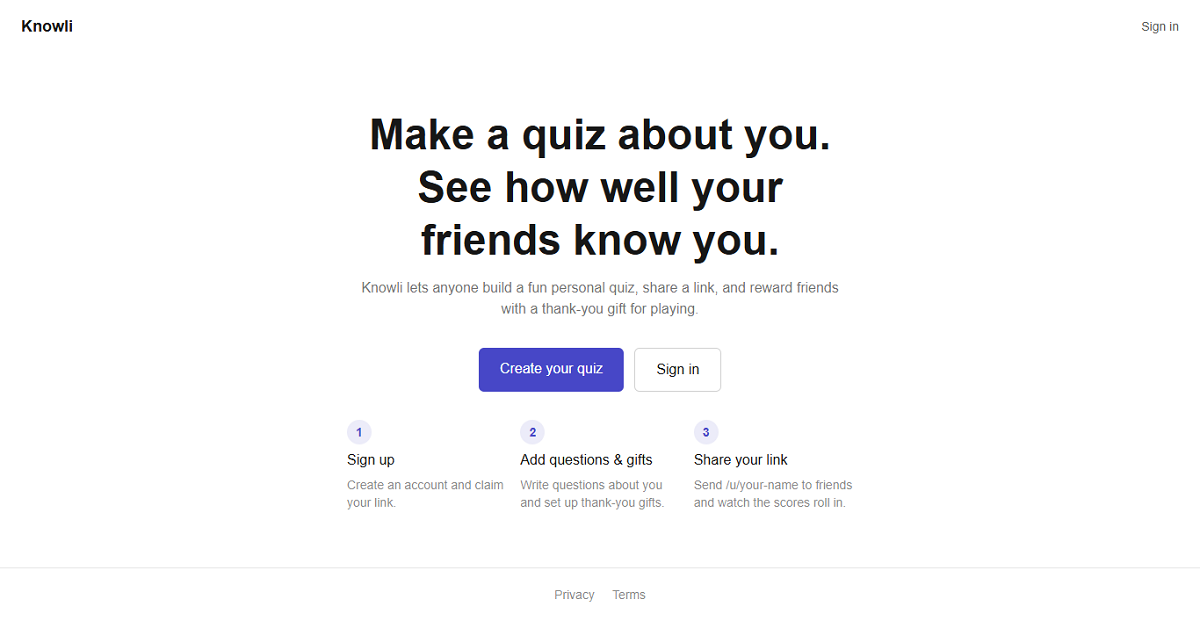
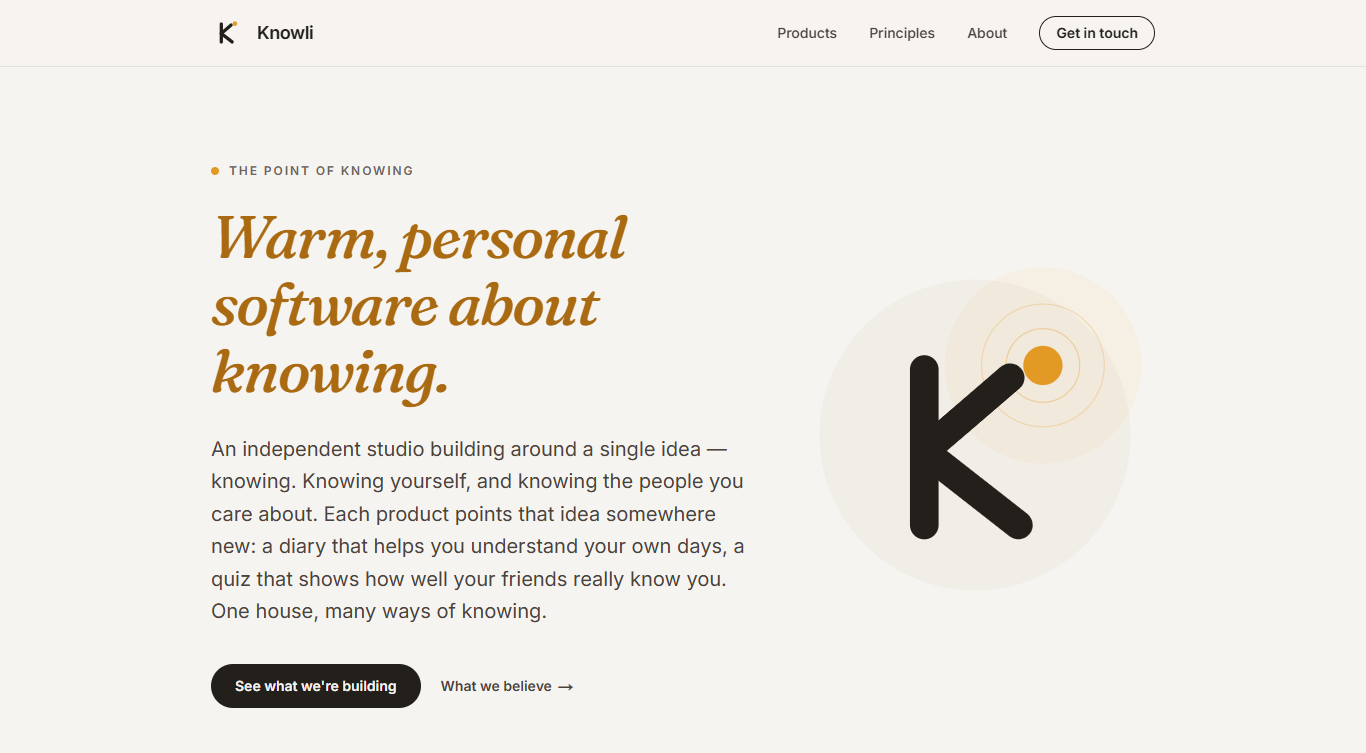
feat(projects): add Daylight and Knowli brand projects, rename Knowli to Knowli Quiz
Knowli is now the parent brand with its own marketing site, and the
original quiz product moved under it at quiz.knowli.xyz as Knowli Quiz.
Adds Daylight, the pre-launch diary product currently live as a waitlist
page, plus a socialLinks field to show a project's brand social accounts.

diff --git a/data/projects.ts b/data/projects.ts
@@ -32,6 +32,13 @@ export interface SocialPost {
   platform?: "linkedin" | "twitter" | "other";
 }
 
+// A brand's social media account, shown as an icon row (distinct from SocialPost,
+// which is a write-up about the project rather than an account).
+export interface SocialLink {
+  platform: "x" | "instagram" | "linkedin" | "youtube" | "tiktok";
+  url: string;
+}
+
 export interface Project {
   id: string;
   name: string;
@@ -54,6 +61,7 @@ export interface Project {
     posts?: SocialPost[]; // Curated list of write-ups / posts
     searchUrl?: string; // Optional "see all posts" link (e.g. a LinkedIn search)
   };
+  socialLinks?: SocialLink[]; // Brand's own social media accounts, shown as an icon row
 }
 
 const getTechnology = (name: string): Technology => {
@@ -81,17 +89,95 @@ export const projects: Project[] = [
     id: 'knowli',
     name: 'Knowli',
     description:
-      'A public quiz platform where anyone signs up, builds a short quiz about themselves, and shares a personal link with friends. Friends answer, see how well they really know the creator, share their score on WhatsApp, and open a thank-you gift — no account needed to play.',
+      'The parent brand behind Daylight and Knowli Quiz. A marketing site that introduces the Knowli studio, explains the idea tying its products together, and links out to each live product.',
     fullDescription:
-      'Knowli started as a single-person quiz ("How well do you know me?") and grew, over 15+ releases, into a full multi-user product. Every user is now a creator with their own quiz at /u/<username>, a dashboard with stat cards and an activity feed, per-recipient gifts, and creator self-tests kept separate from real player results. It ships a complete platform layer: self-service signup, multi-admin auth gated behind super-admin approval, database-driven free-tier limits with creator tiers and email verification, an in-app notification system, limit-increase requests with an admin approval queue, and Google Analytics — all backed by a real v1→v2 data migration run against the live database.',
-    category: 'platform',
+      "Knowli is the parent brand behind a growing family of products — Daylight (the diary app) and Knowli Quiz — with more learning and productivity products planned. This site is the brand's home: a header with smooth-scroll navigation, a hero, a section explaining the idea behind Knowli (one idea, expressed as different products, each free to look and feel like itself), a products section linking to Daylight's waitlist and Knowli Quiz, a values section (data ownership, honesty about what's built vs. coming), an about section, and a footer with social links.",
+    category: 'brand',
     links: {
-      github: 'https://github.com/omooladev/knowli',
+      github: 'https://github.com/knowlihq/knowli',
       demo: 'https://www.knowli.xyz',
     },
     privateRepo: true,
-    technologies: [getTechnology('Next.js'), getTechnology('React'), getTechnology('Typescript'), getTechnology('Tailwind CSS'), getTechnology('MongoDB'), getTechnology('Node.js')],
+    technologies: [getTechnology('Next.js'), getTechnology('React'), getTechnology('Typescript'), getTechnology('Tailwind CSS')],
     thumbnail: '/project-images/knowli.png',
+    websitePreview: 'https://www.knowli.xyz',
+    socialLinks: [
+      { platform: 'x', url: 'https://x.com/knowlihq' },
+      { platform: 'instagram', url: 'https://www.instagram.com/knowlihq/' },
+      { platform: 'linkedin', url: 'https://www.linkedin.com/company/knowlihq/' },
+      { platform: 'youtube', url: 'https://www.youtube.com/@knowlihq' },
+      { platform: 'tiktok', url: 'https://www.tiktok.com/@knowlihq' },
+    ],
+    features: [
+      'Header with smooth-scroll navigation to Products, Principles, and About',
+      'Products section linking to each live product — the Daylight waitlist and Knowli Quiz',
+      'Idea section explaining the philosophy behind the studio: one idea, many products, each with its own identity',
+      'Values section — data ownership and honesty about what is built vs. what is coming',
+      'About section with a direct studio contact email',
+      'Footer with social channels (X, Instagram, LinkedIn, YouTube, GitHub)',
+    ],
+    challenges: [
+      'Introducing a multi-product brand before every product has its own finished visual identity — Knowli Quiz still borrows the shared Knowli mark, while Daylight already has its own',
+      'Writing brand copy that stays honest about what is live versus planned, rather than reading as marketing filler',
+    ],
+    releases: [
+      {
+        version: 'v1.0.0',
+        title: 'The Knowli House Opens',
+        date: 'Jul 2026',
+        category: 'feature',
+        summary:
+          "Knowli's home on the web went live — a place to learn what the brand is about and find your way to its products, Daylight and Knowli Quiz, with idea, values, and about sections plus social links in the footer.",
+      },
+    ],
+  },
+  {
+    id: 'daylight',
+    name: 'Daylight',
+    description:
+      "The official diary app of Knowli — an upcoming AI-powered journaling PWA. Currently pre-launch: the live site is a waitlist landing page so early visitors can be notified at launch.",
+    fullDescription:
+      "Daylight will let people document their lives without overthinking the day — write entries by text or voice, have the AI advise, motivate, or roast on request, and export or import diaries from other apps. None of that is public yet: right now the only thing live is a pre-launch waitlist landing page, gated behind a `WAITLIST_ENABLED` flag so the site can be deployed ahead of the actual product. The waitlist itself is a full feature in its own right — duplicate signups are treated as a non-event rather than an error, and every signup is tagged with first-touch campaign attribution (UTM params or a referrer-hostname fallback) captured in Next.js's proxy layer before the page even renders, so campaign channels can be judged by real signups instead of clicks.",
+    category: 'productivity',
+    links: {
+      github: 'https://github.com/knowlihq/knowli-diary',
+      demo: 'https://daylight.knowli.xyz',
+    },
+    privateRepo: true,
+    technologies: [getTechnology('Next.js'), getTechnology('React'), getTechnology('Typescript'), getTechnology('Tailwind CSS'), getTechnology('MongoDB'), getTechnology('Node.js')],
+    thumbnail: '/project-images/daylight.png',
+    websitePreview: 'https://daylight.knowli.xyz',
+    features: [
+      'Pre-launch waitlist landing page, toggled on/off with a `WAITLIST_ENABLED` flag rather than a code change',
+      'First-touch campaign attribution — UTM params or a referrer-hostname fallback captured server-side in the proxy, stored in an HTTP-only cookie, and saved against each signup',
+      'Duplicate signups resolve as "already on the list" instead of an error',
+      'Privacy policy page and Google Analytics integration with a password-gated /dev opt-out toggle',
+      'PWA-ready with app icons and manifest',
+    ],
+    challenges: [
+      'Capturing accurate attribution with zero client-side dependency — read entirely from the raw Referer header and UTM params in the Next.js proxy, so it still works even if the visitor\'s browser never runs page JS',
+      'Choosing first-touch over last-touch attribution, since a pre-launch single-page site cares about which channel first earned someone\'s interest, not what they clicked last',
+      'Shipping a real backend (Mongoose, auth primitives, session model) ahead of the features that need it, without exposing any of it on the public pre-launch site',
+    ],
+    social: {
+      posts: [],
+    },
+  },
+  {
+    id: 'knowli-quiz',
+    name: 'Knowli Quiz',
+    description:
+      'A public quiz platform where anyone signs up, builds a short quiz about themselves, and shares a personal link with friends. Friends answer, see how well they really know the creator, share their score on WhatsApp, and open a thank-you gift — no account needed to play.',
+    fullDescription:
+      'Knowli Quiz started as a single-person quiz ("How well do you know me?") and grew, over 15+ releases, into a full multi-user product, now living at quiz.knowli.xyz under the Knowli parent brand. Every user is now a creator with their own quiz at /u/<username>, a dashboard with stat cards and an activity feed, per-recipient gifts, and creator self-tests kept separate from real player results. It ships a complete platform layer: self-service signup, multi-admin auth gated behind super-admin approval, database-driven free-tier limits with creator tiers and email verification, an in-app notification system, limit-increase requests with an admin approval queue, and Google Analytics — all backed by a real v1→v2 data migration run against the live database.',
+    category: 'platform',
+    links: {
+      github: 'https://github.com/knowlihq/knowli-quiz',
+      demo: 'https://quiz.knowli.xyz',
+    },
+    privateRepo: true,
+    technologies: [getTechnology('Next.js'), getTechnology('React'), getTechnology('Typescript'), getTechnology('Tailwind CSS'), getTechnology('MongoDB'), getTechnology('Node.js')],
+    thumbnail: '/project-images/knowli-quiz.png',
     // Add more screenshots here (resized to 1280x720). Drop the files in
     // public/project-images/ and reference them with a lowercase path.
     gallery: [
@@ -117,7 +203,7 @@ export const projects: Project[] = [
       { src: '/project-images/gallery/knowli/analytics.jpg', alt: 'Knowli analytics', caption: 'Analytics' },
       { src: '/project-images/gallery/knowli/github-actions-deployment.jpg', alt: 'Knowli GitHub Actions deployment', caption: 'GitHub Actions deployment' },
     ],
-    websitePreview: 'https://www.knowli.xyz',
+    websitePreview: 'https://quiz.knowli.xyz',
     features: [
       'Self-service creator signup — build your own quiz and share it at /u/<username>',
       'Play with no account — just enter the name the creator knows you by',

diff --git a/app/projects/[slug]/page.tsx b/app/projects/[slug]/page.tsx
@@ -369,6 +369,39 @@ export default async function ProjectDetailsPage({ params }: { params: Promise<{
               </div>
             </div>
 
+            {/* Social Links */}
+            {project.socialLinks && project.socialLinks.length > 0 && (
+              <div className="card p-6">
+                <h3 className="text-xl font-bold mb-4">Follow {project.name}</h3>
+                <div className="flex flex-wrap gap-3">
+                  {project.socialLinks.map((social) => {
+                    const iconClass =
+                      social.platform === "x"
+                        ? "fa-brands fa-x-twitter"
+                        : social.platform === "instagram"
+                          ? "fa-brands fa-instagram"
+                          : social.platform === "linkedin"
+                            ? "fa-brands fa-linkedin-in"
+                            : social.platform === "youtube"
+                              ? "fa-brands fa-youtube"
+                              : "fa-brands fa-tiktok";
+                    return (
+                      <a
+                        key={social.platform}
+                        href={social.url}
+                        target="_blank"
+                        rel="noopener noreferrer"
+                        className="flex-1 flex items-center justify-center gap-2 p-3 bg-primary/10 dark:bg-primary-dark/20 text-primary dark:text-primary-dark rounded-lg hover:bg-primary/20 dark:hover:bg-primary-dark/30 transition-colors"
+                        aria-label={`${project.name} on ${social.platform}`}
+                      >
+                        <i className={`${iconClass} text-xl`} aria-hidden="true" />
+                      </a>
+                    );
+                  })}
+                </div>
+              </div>
+            )}
+
             {/* Share */}
             <div className="card p-6">
               <h3 className="text-xl font-bold mb-4">Share This Project</h3>
